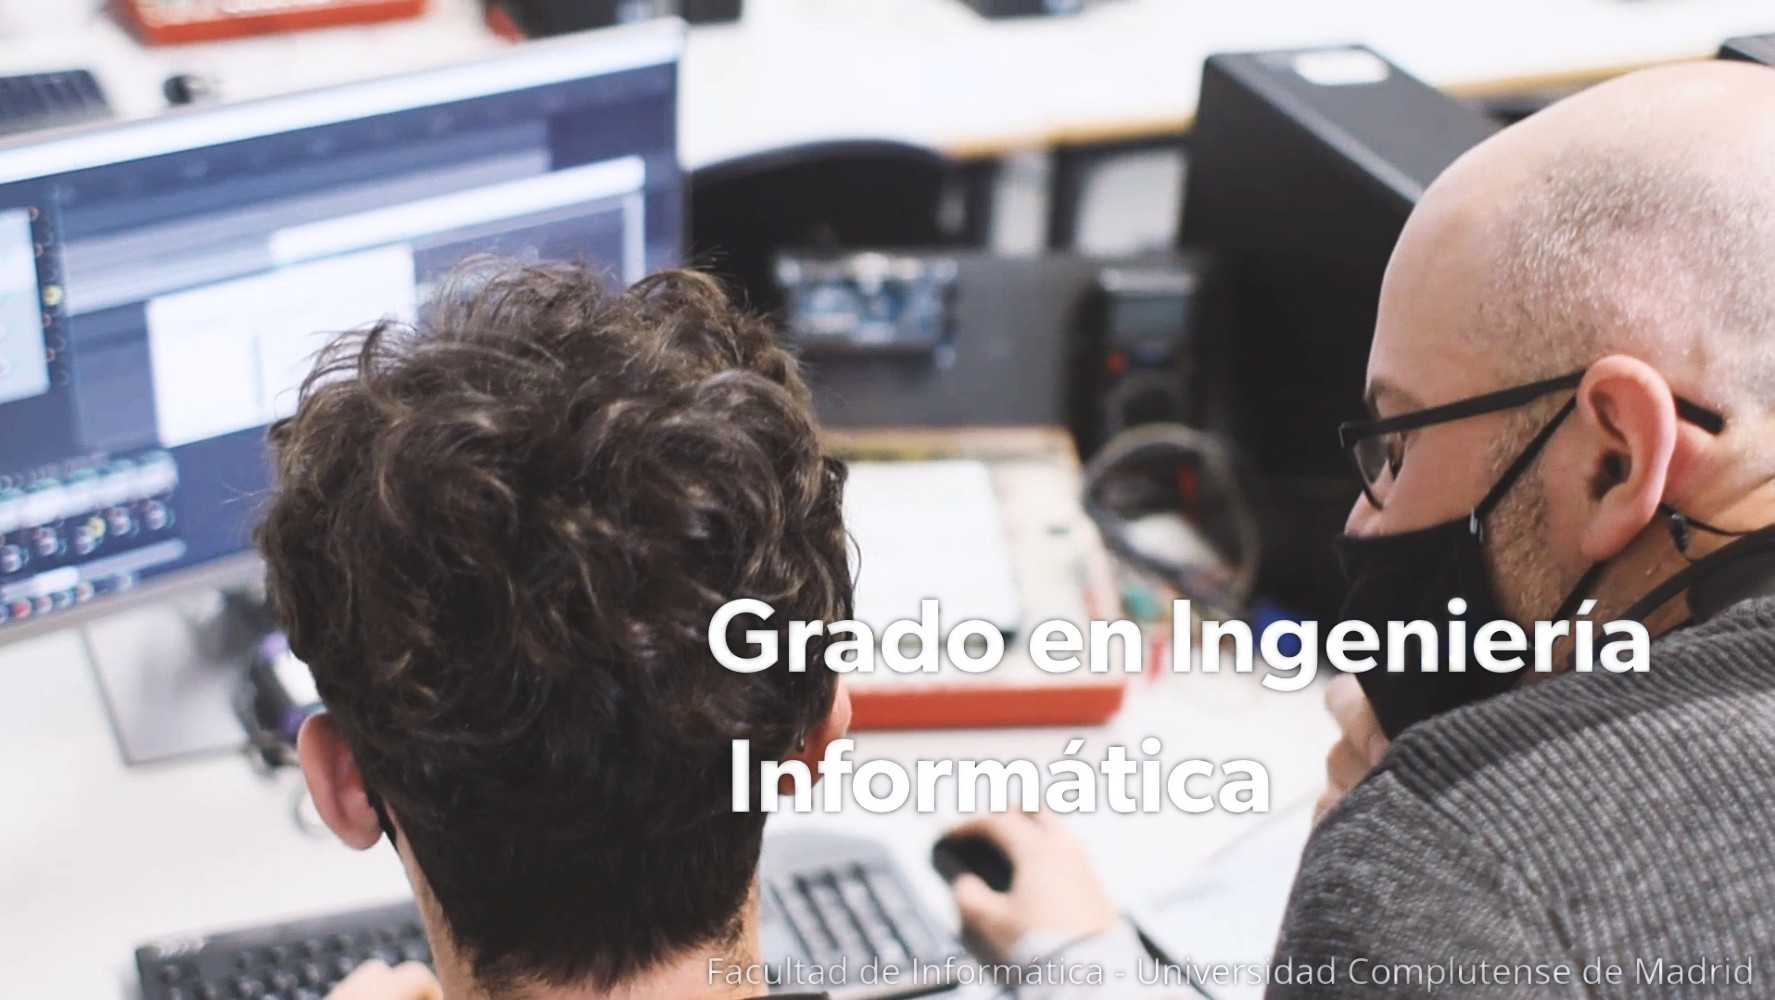
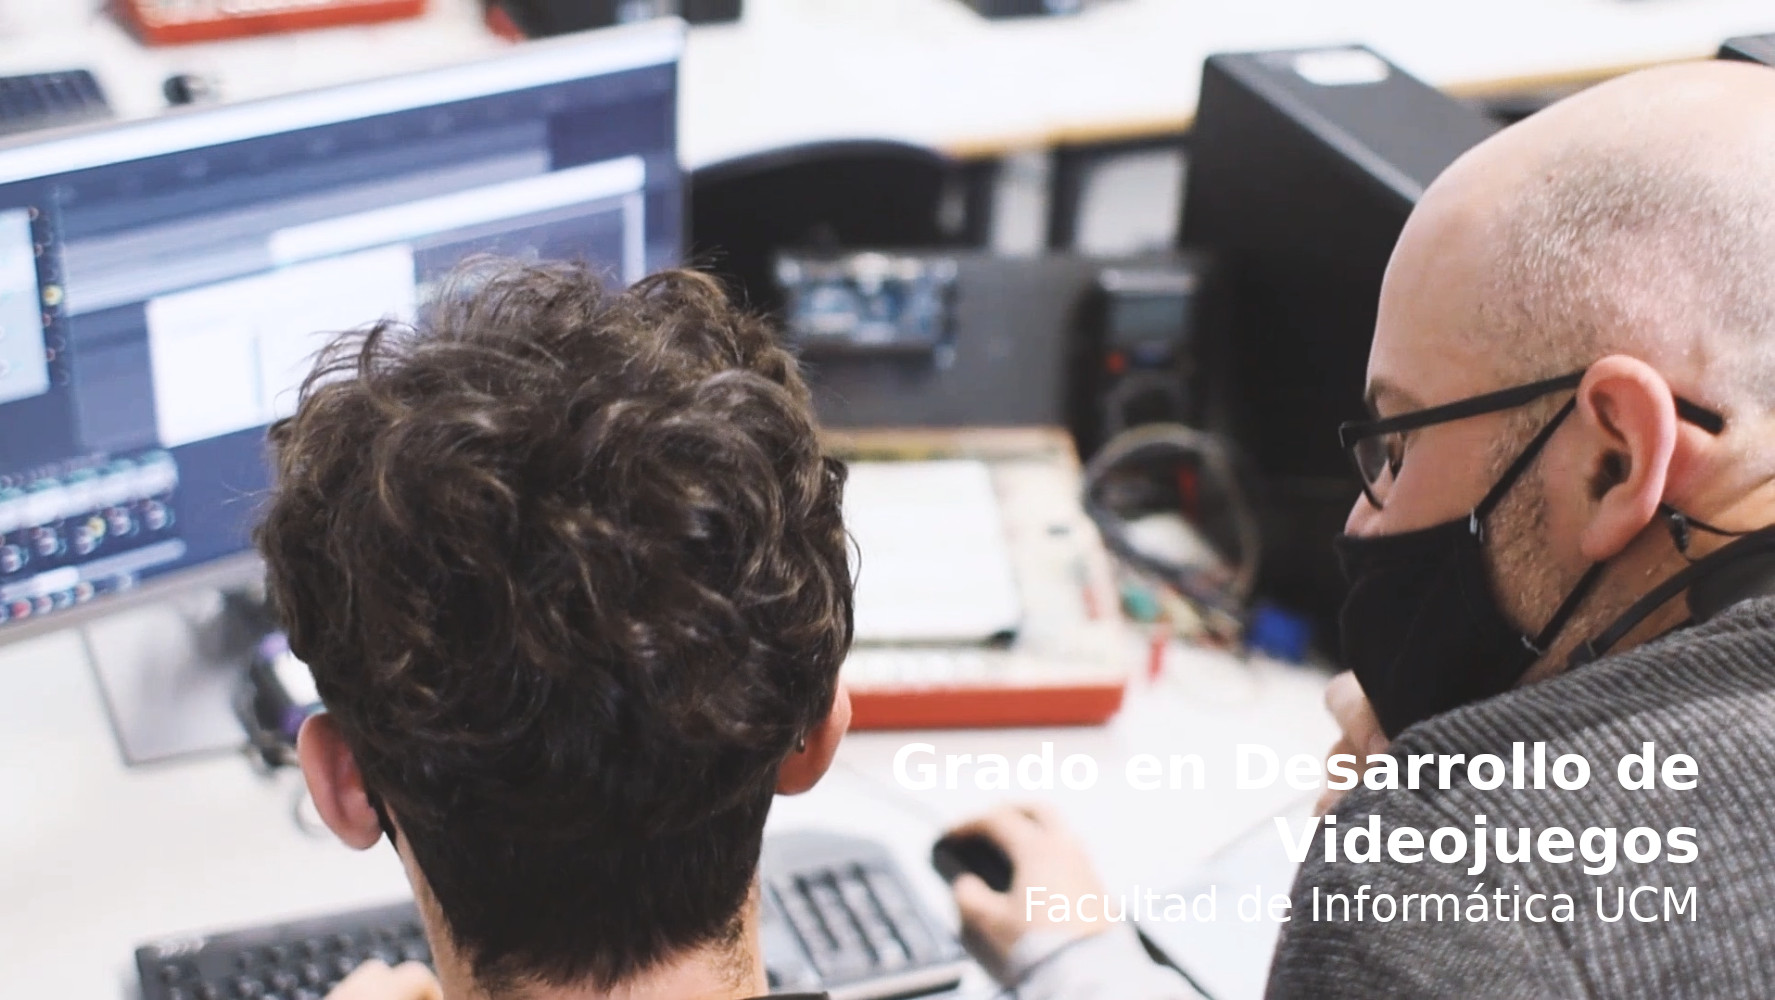
Update gii.jpg and index.html

diff --git a/index.html b/index.html
@@ -18,14 +18,14 @@
         <div class="mySlides fade">
             <div class="numbertext">1 / 2</div>
             <img src="gii.jpg" style="width:100%">
-            <div class="text">Grado en Ingeniería Informática</div>
+            <!-- <div class="text">Grado en Ingeniería Informática</div> -->
         </div>
 
 
         <div class="mySlides fade">
             <div class="numbertext">2 / 2</div>
             <img src="gdv.jpg" style="width:100%">
-            <div class="text">Grado en Desarrollo de Videojuegos</div>
+            <!-- <div class="text">Grado en Desarrollo de Videojuegos</div> -->
         </div>
 
         <!-- <div class="mySlides fade">
